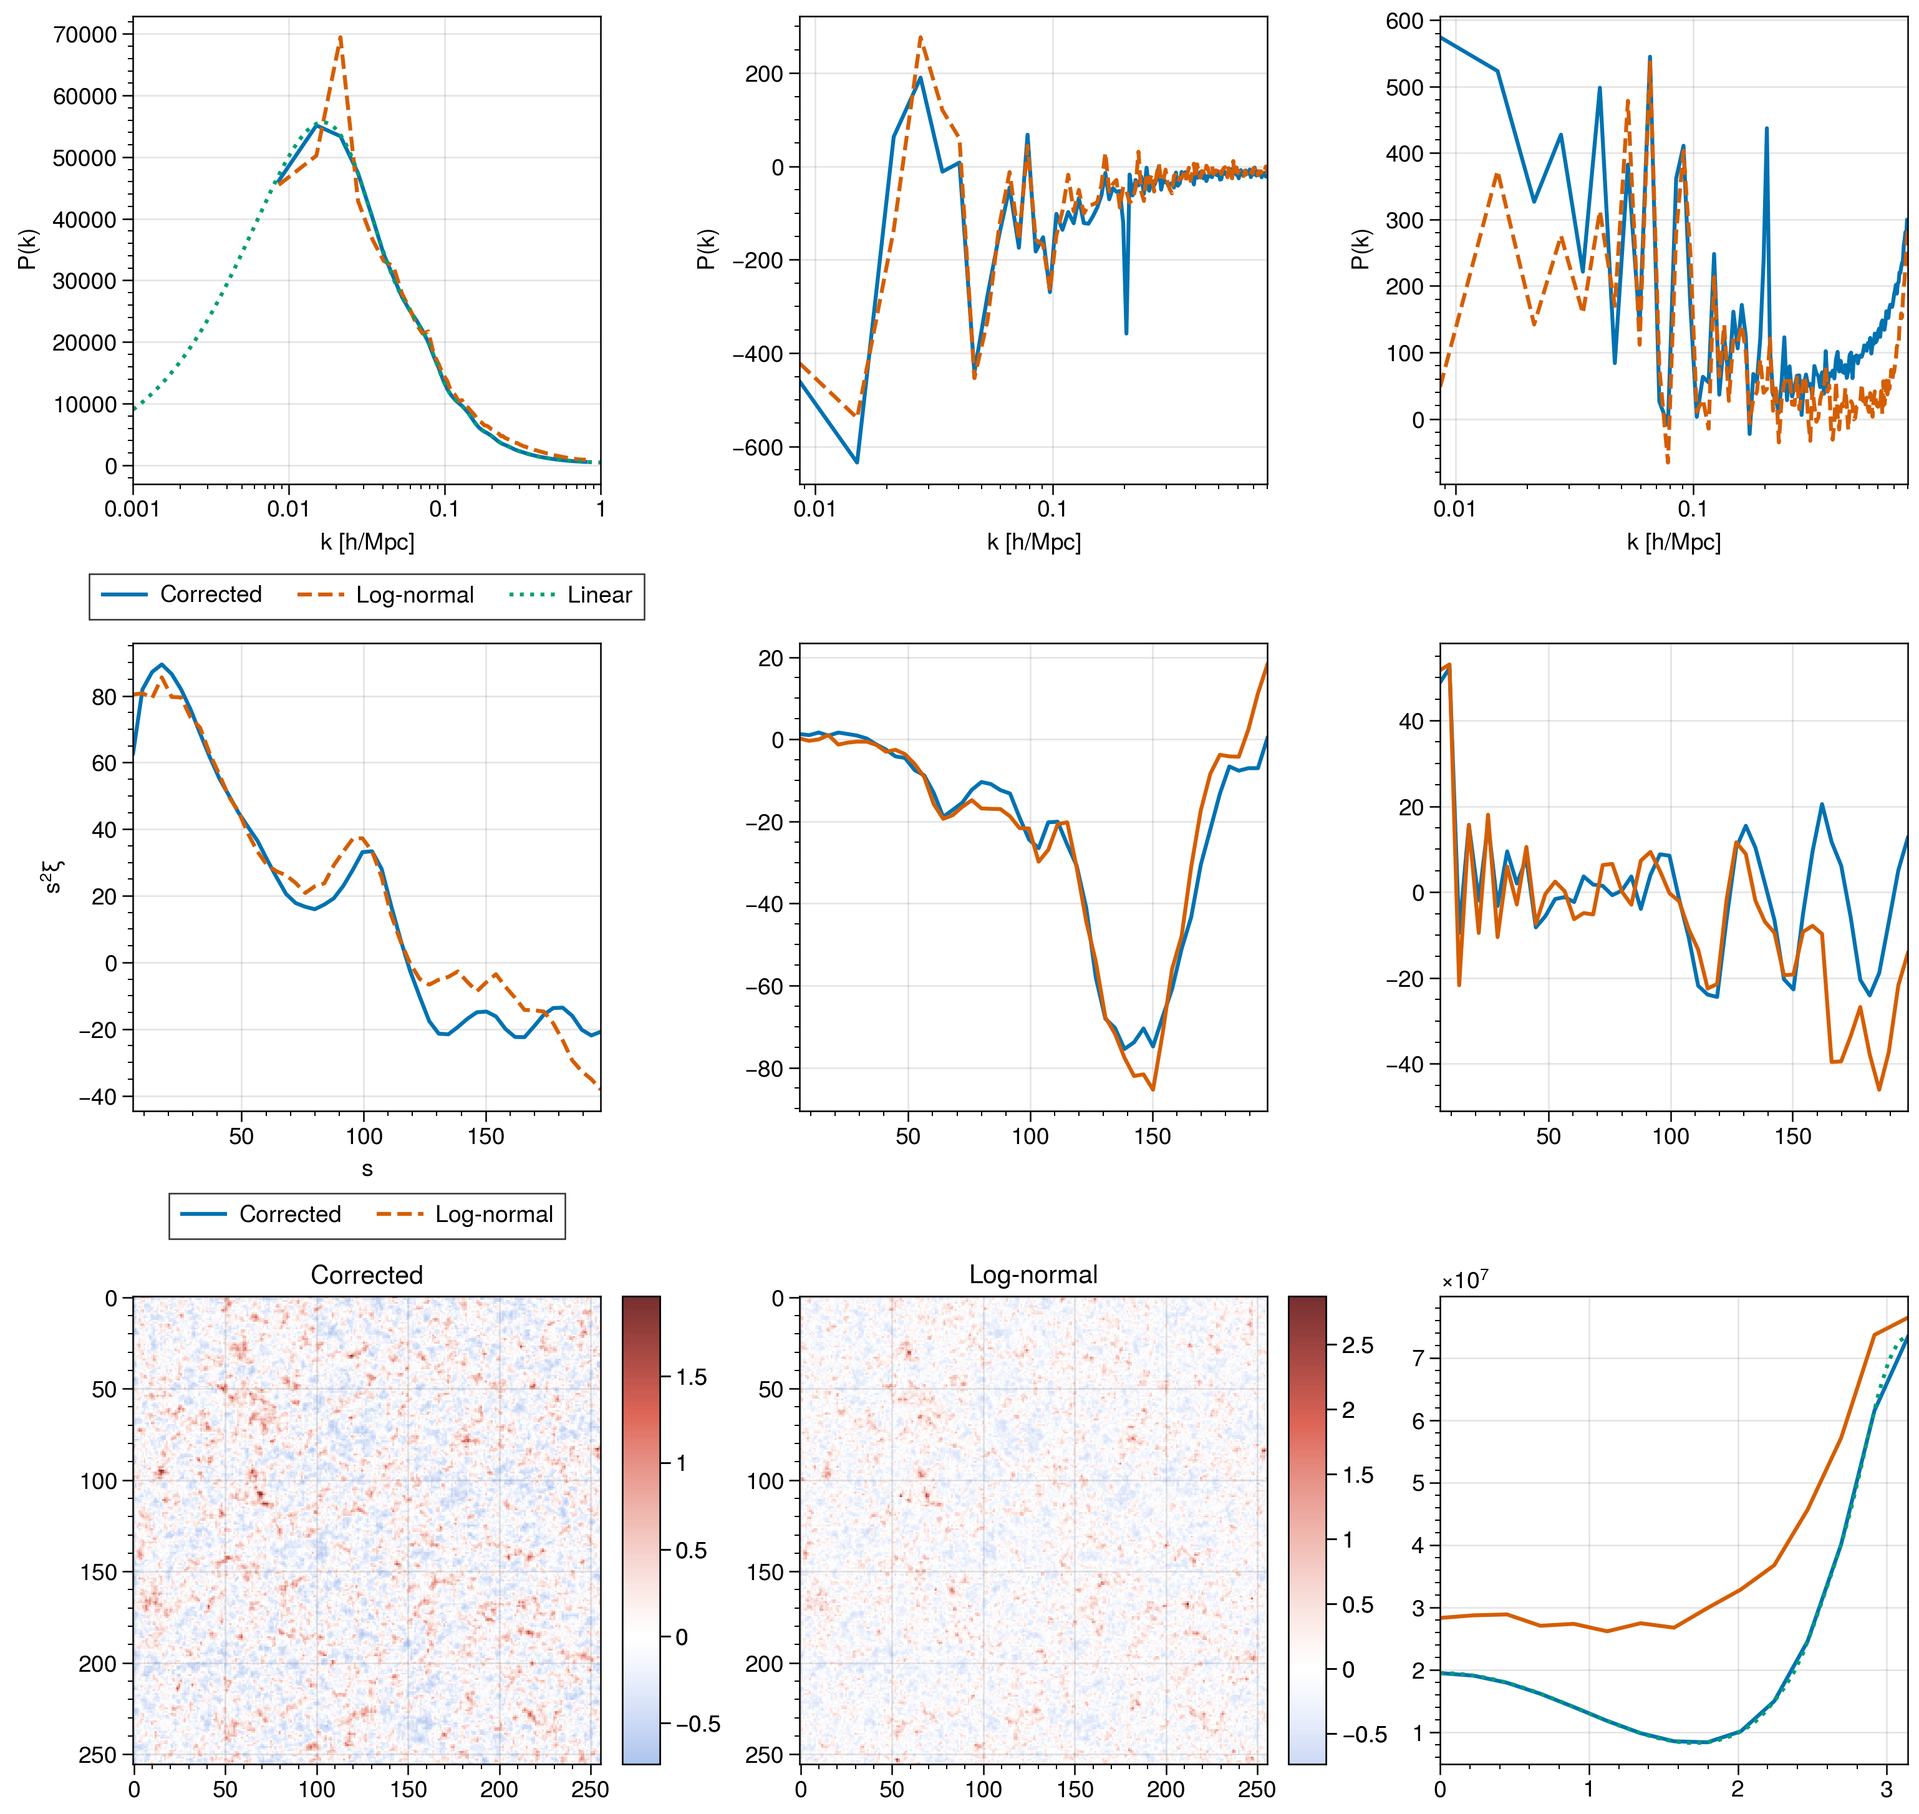
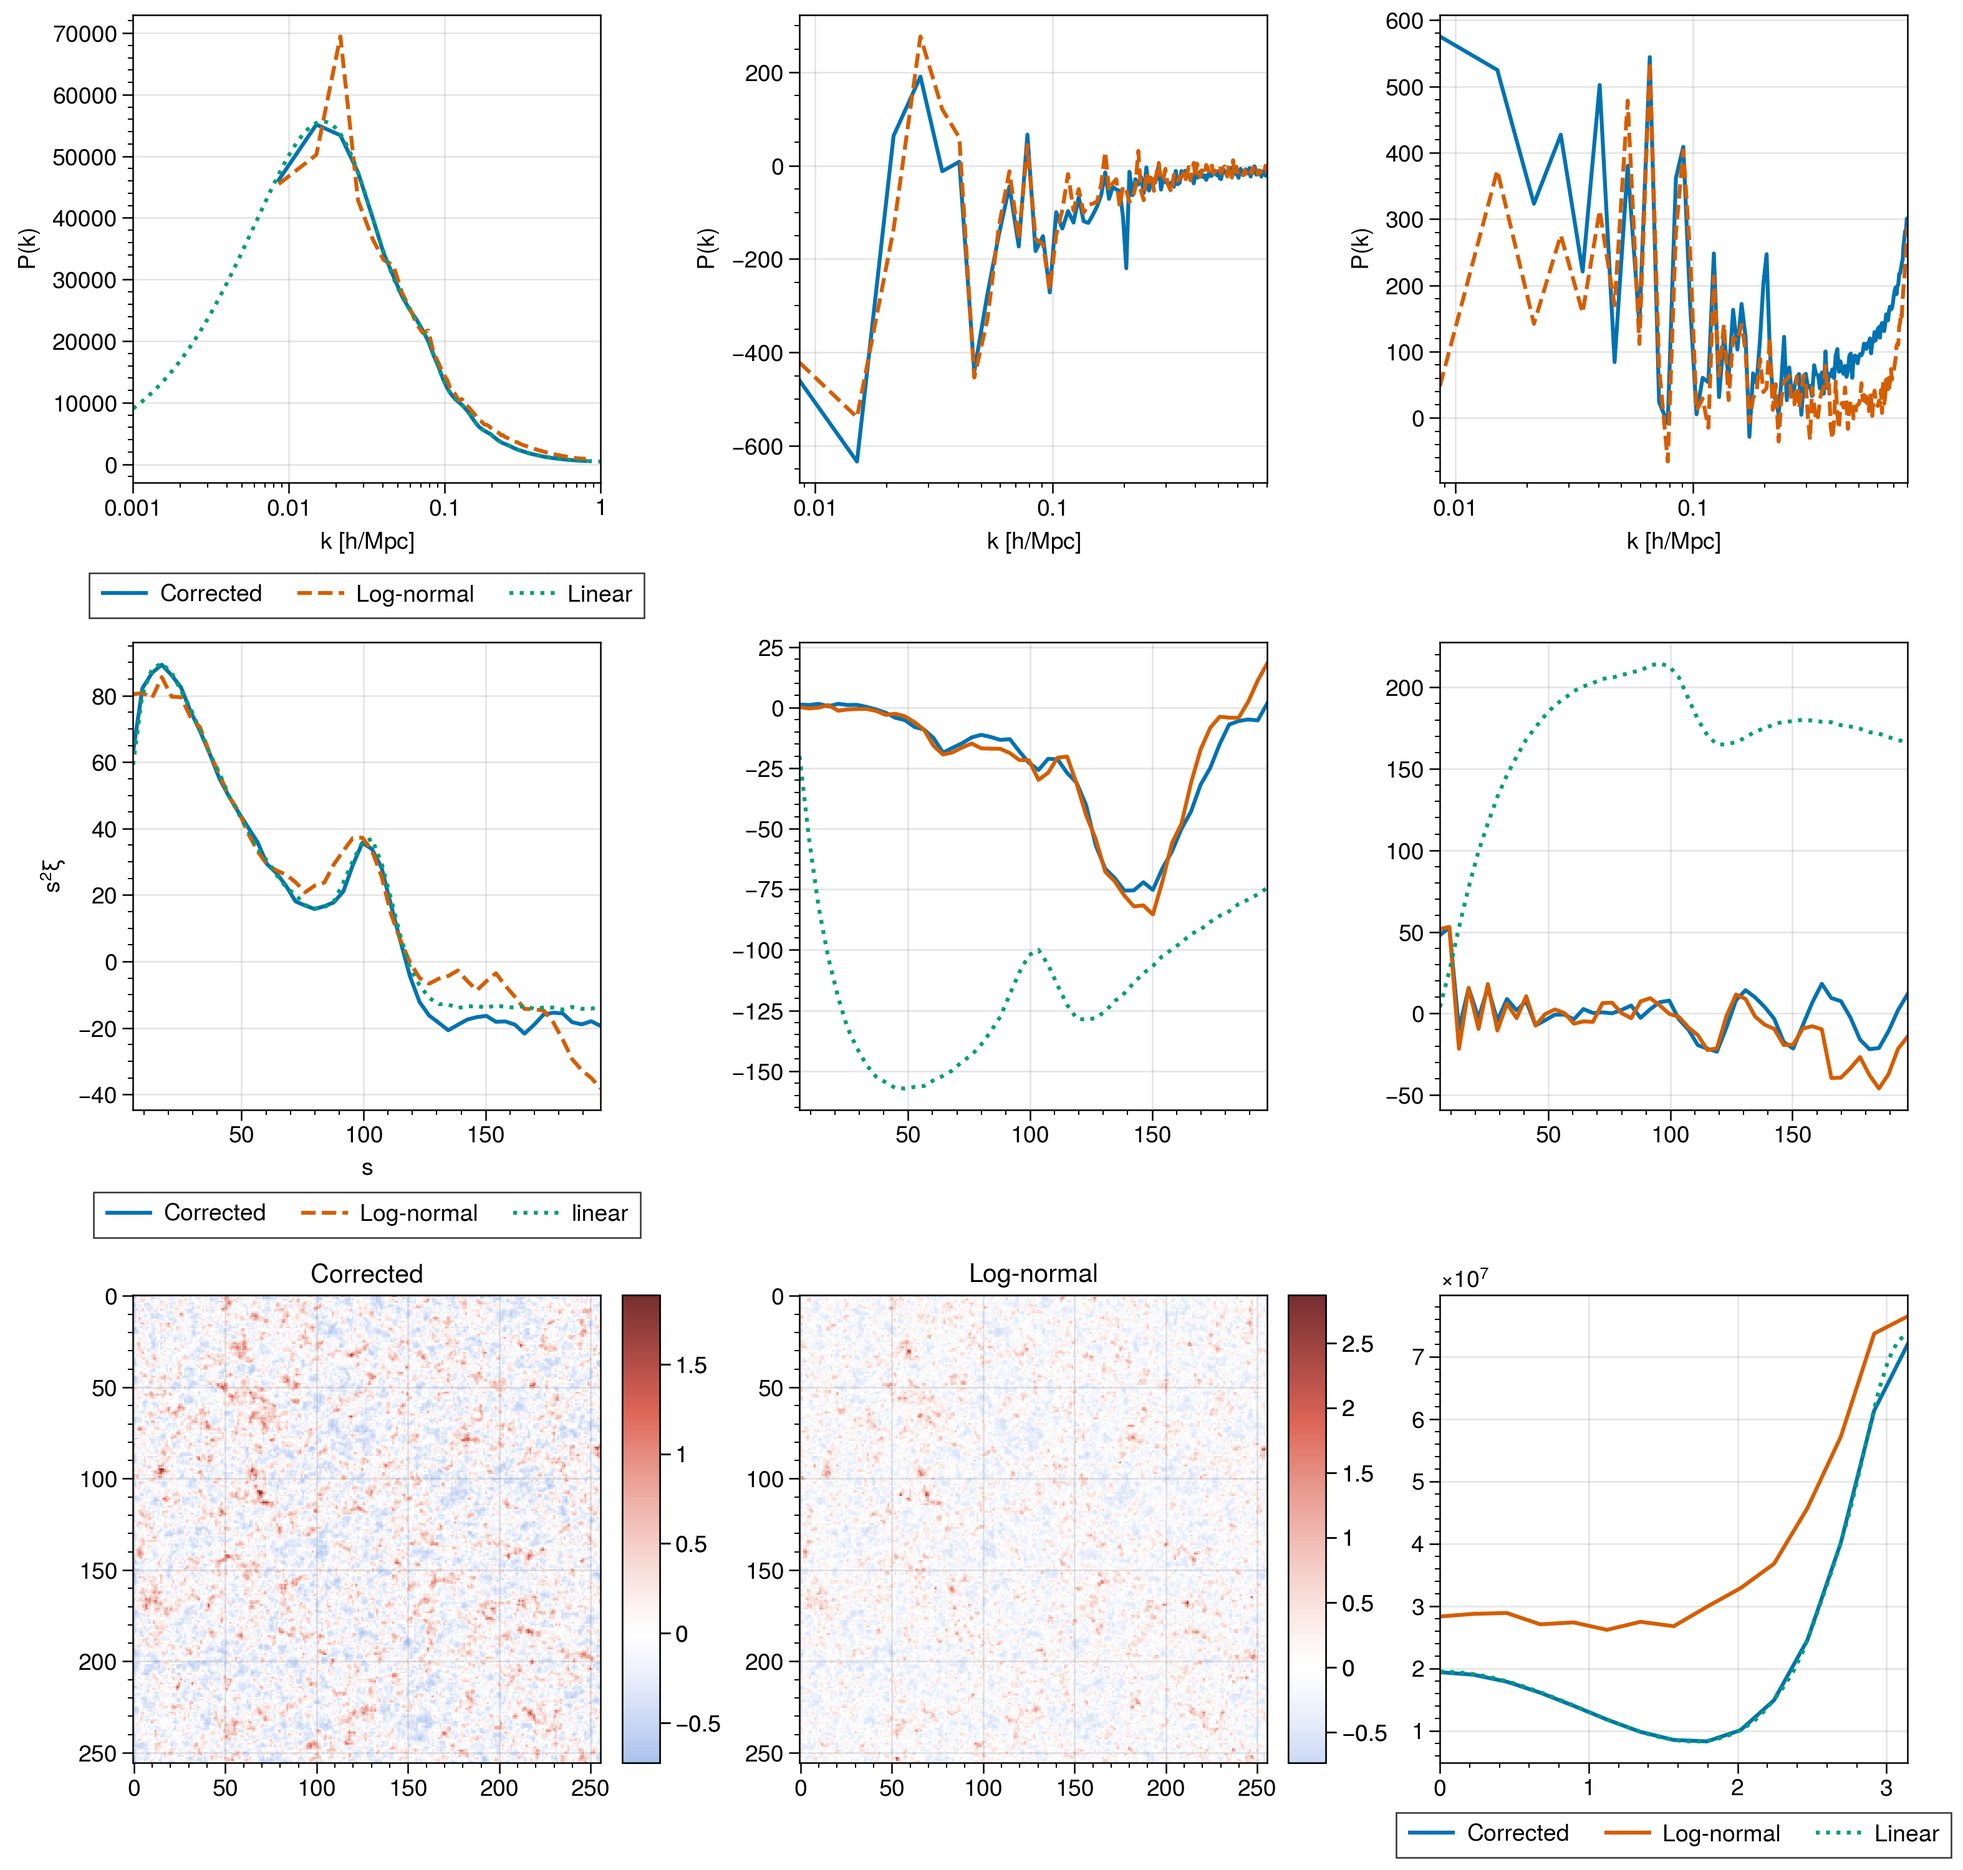
Train to match bispectrum 100 epochs in ~1600 s 32 core CPU no AVX

diff --git a/tests/lognormal_bispec.py b/tests/lognormal_bispec.py
@@ -88,8 +88,8 @@ def loss(positions):
     plin = jnp.interp(k, klin, plin_i) + shot_noise
     
     
-    mono_loss = jnp.nanmean((jnp.log10(pk[:,0]) - jnp.log10(plin))**2)
-    #mono_loss = jnp.nanmean((pk[:,0] - plin)**2)
+    #mono_loss = jnp.nanmean((jnp.log10(pk[:,0]) - jnp.log10(plin))**2)
+    mono_loss = jnp.nanmean((pk[:,0] - plin)**2)
     quad_loss = jnp.nanmean(pk[:,1]**2)
 
 
@@ -114,7 +114,7 @@ def step(step, opt_state):
     value, grads = jax.value_and_grad(loss)(get_params(opt_state))
     opt_state = opt_update(step, grads, opt_state)
     return opt_state
-num_steps = 300
+num_steps = 100
 s = time.time()
 print("Training...", flush=True)
 opt_state = jax.lax.fori_loop(0, num_steps, step, opt_state)   
@@ -152,7 +152,7 @@ plin = bias**2 * jc.power.linear_matter_power(jc.Planck15(), k, a=1. / (1 + z), 
 fig, ax = pplt.subplots(nrows=3, ncols=3, sharex=False, sharey=False)
 ax[6].imshow(delta[:,:,:].mean(axis=2), colorbar='r')
 ax[6].format(title='Corrected')
-ax[0].plot(k, k*pk[:,0], label='Corrected')
+ax[0].plot(k, pk[:,0], label='Corrected')
 ax[1].plot(k, k*pk[:,1], label='Corrected')
 ax[2].plot(k, k*pk[:,2], label='Corrected')
 
@@ -211,6 +211,7 @@ ax[7].imshow(delta[:,:,:].mean(axis=2), colorbar='r')
 ax[7].format(title='Log-normal')
 ax[0].legend(loc='bottom')
 ax[3].legend(loc='bottom')
+ax[8].legend(loc='bottom')
 ax[3].format(xlabel='$s$', ylabel=r'$s^2\xi$')
 fig.savefig("plots/lognormal_bispec.png", dpi=300)
 
